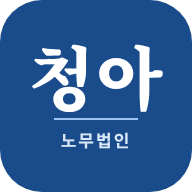
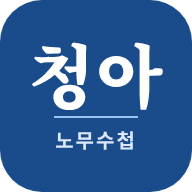
앱 아이콘을 '청아 / 노무수첩'으로 변경
Claude-Session: https://claude.ai/code/session_01Uqf6varMtPearUrYnXMBFC

diff --git a/index.html b/index.html
@@ -11,15 +11,15 @@
 <meta name="apple-mobile-web-app-status-bar-style" content="black-translucent">
 <meta name="apple-mobile-web-app-title" content="청아 노무수첩">
 <link rel="manifest" href="manifest.webmanifest">
-<link rel="icon" type="image/png" sizes="32x32" href="icons/favicon-32.png">
-<link rel="apple-touch-icon" href="icons/apple-touch-icon.png">
+<link rel="icon" type="image/png" sizes="32x32" href="icons/favicon-32.png?v=2">
+<link rel="apple-touch-icon" href="icons/apple-touch-icon.png?v=2">
 <title>청아 노무수첩</title>
 <meta name="description" content="기준금액·계산기·지원금·행정해석을 한곳에. 청아노무법인">
 <meta property="og:type" content="website">
 <meta property="og:title" content="청아 노무수첩 | 청아노무법인">
 <meta property="og:description" content="기준금액·계산기·지원금·행정해석을 한곳에">
 <meta property="og:url" content="https://sagoclaim-tech.github.io/cheonga-labor/">
-<meta property="og:image" content="https://sagoclaim-tech.github.io/cheonga-labor/icons/icon-512.png">
+<meta property="og:image" content="https://sagoclaim-tech.github.io/cheonga-labor/icons/icon-512.png?v=2">
 <link rel="preconnect" href="https://fonts.googleapis.com">
 <link rel="stylesheet" href="https://fonts.googleapis.com/css2?family=Gowun+Batang:wght@700&family=IBM+Plex+Sans+KR:wght@400;500;600;700&family=IBM+Plex+Mono:wght@500;600&display=swap">
 <style>

diff --git a/sw.js b/sw.js
@@ -1,5 +1,5 @@
 /* 청아노무법인 앱 서비스워커: 화면과 기준 데이터는 항상 최신을 먼저 받고, 연결이 없으면 저장본을 씁니다. */
-const CACHE = "cheonga-v8";
+const CACHE = "cheonga-v9";
 const SHELL = ["./", "index.html", "data.json", "interp.json", "manifest.webmanifest", "icons/icon-192.png", "icons/icon-512.png", "icons/apple-touch-icon.png", "icons/favicon-32.png"];
 self.addEventListener("install", e => { e.waitUntil(caches.open(CACHE).then(c => c.addAll(SHELL)).then(() => self.skipWaiting())); });
 self.addEventListener("activate", e => { e.waitUntil(caches.keys().then(ks => Promise.all(ks.filter(k => k !== CACHE).map(k => caches.delete(k)))).then(() => self.clients.claim())); });
